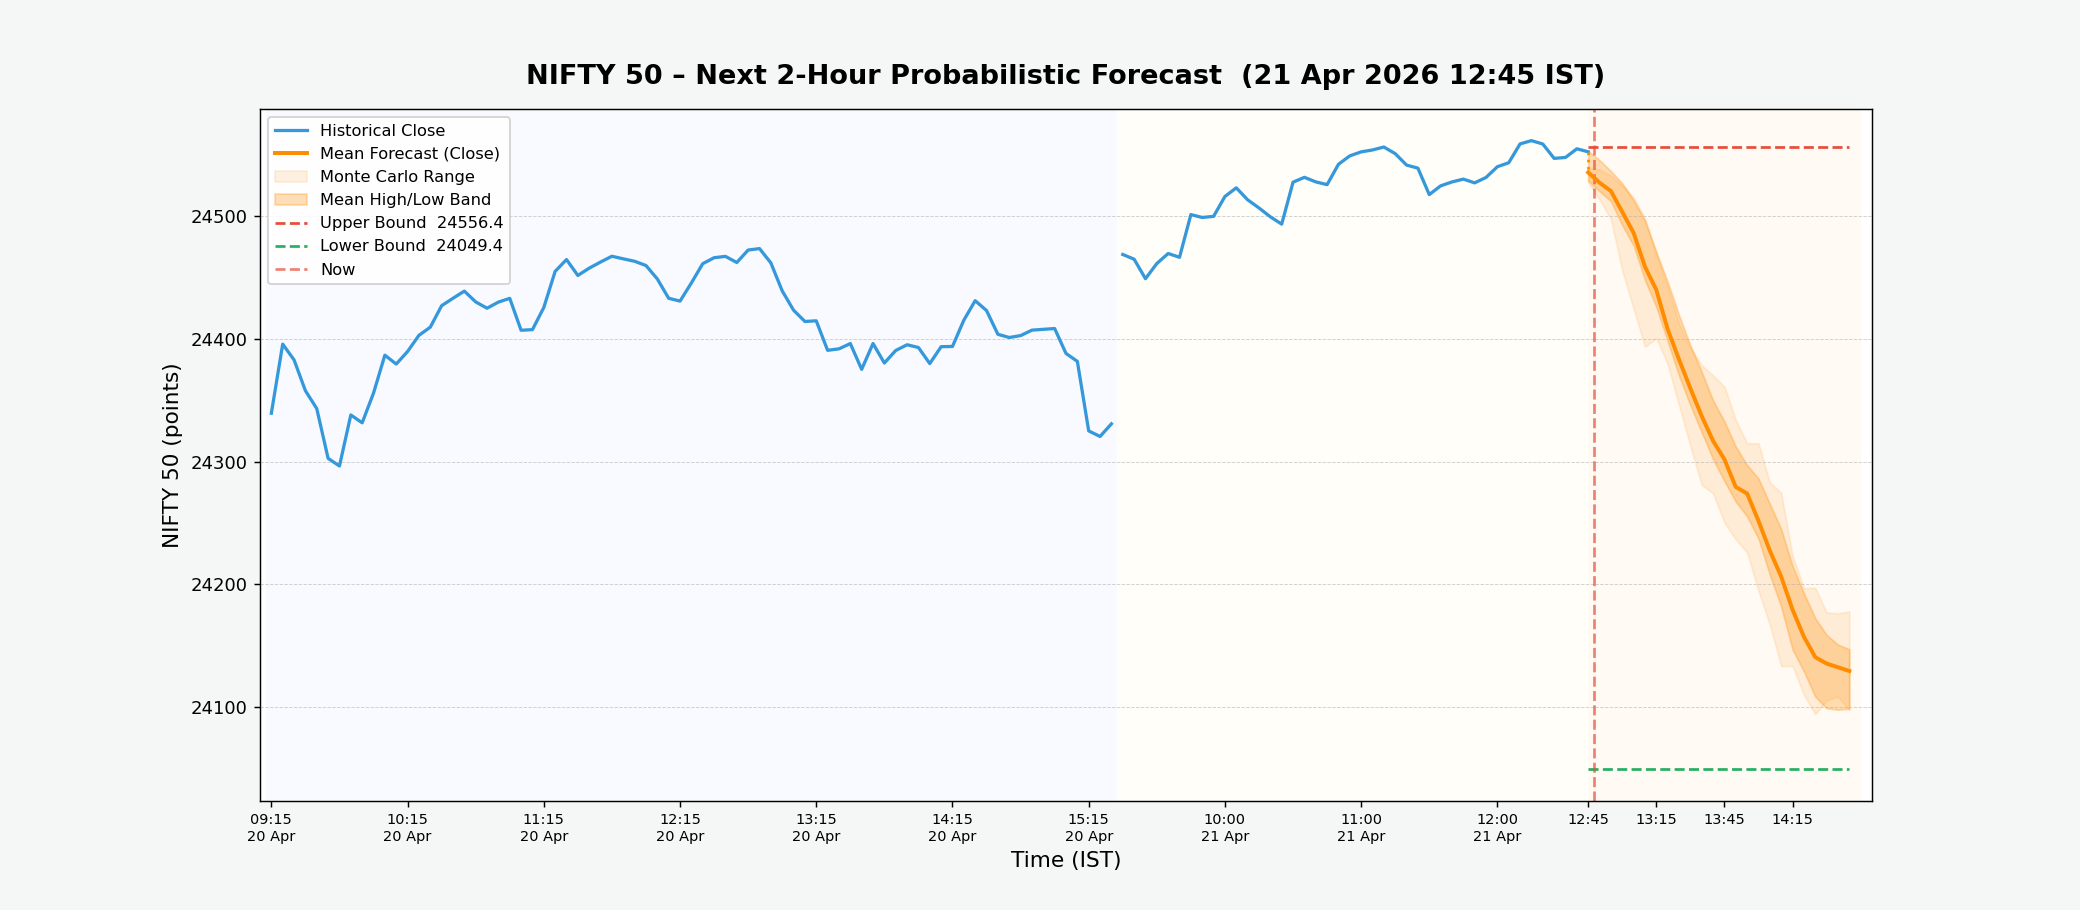
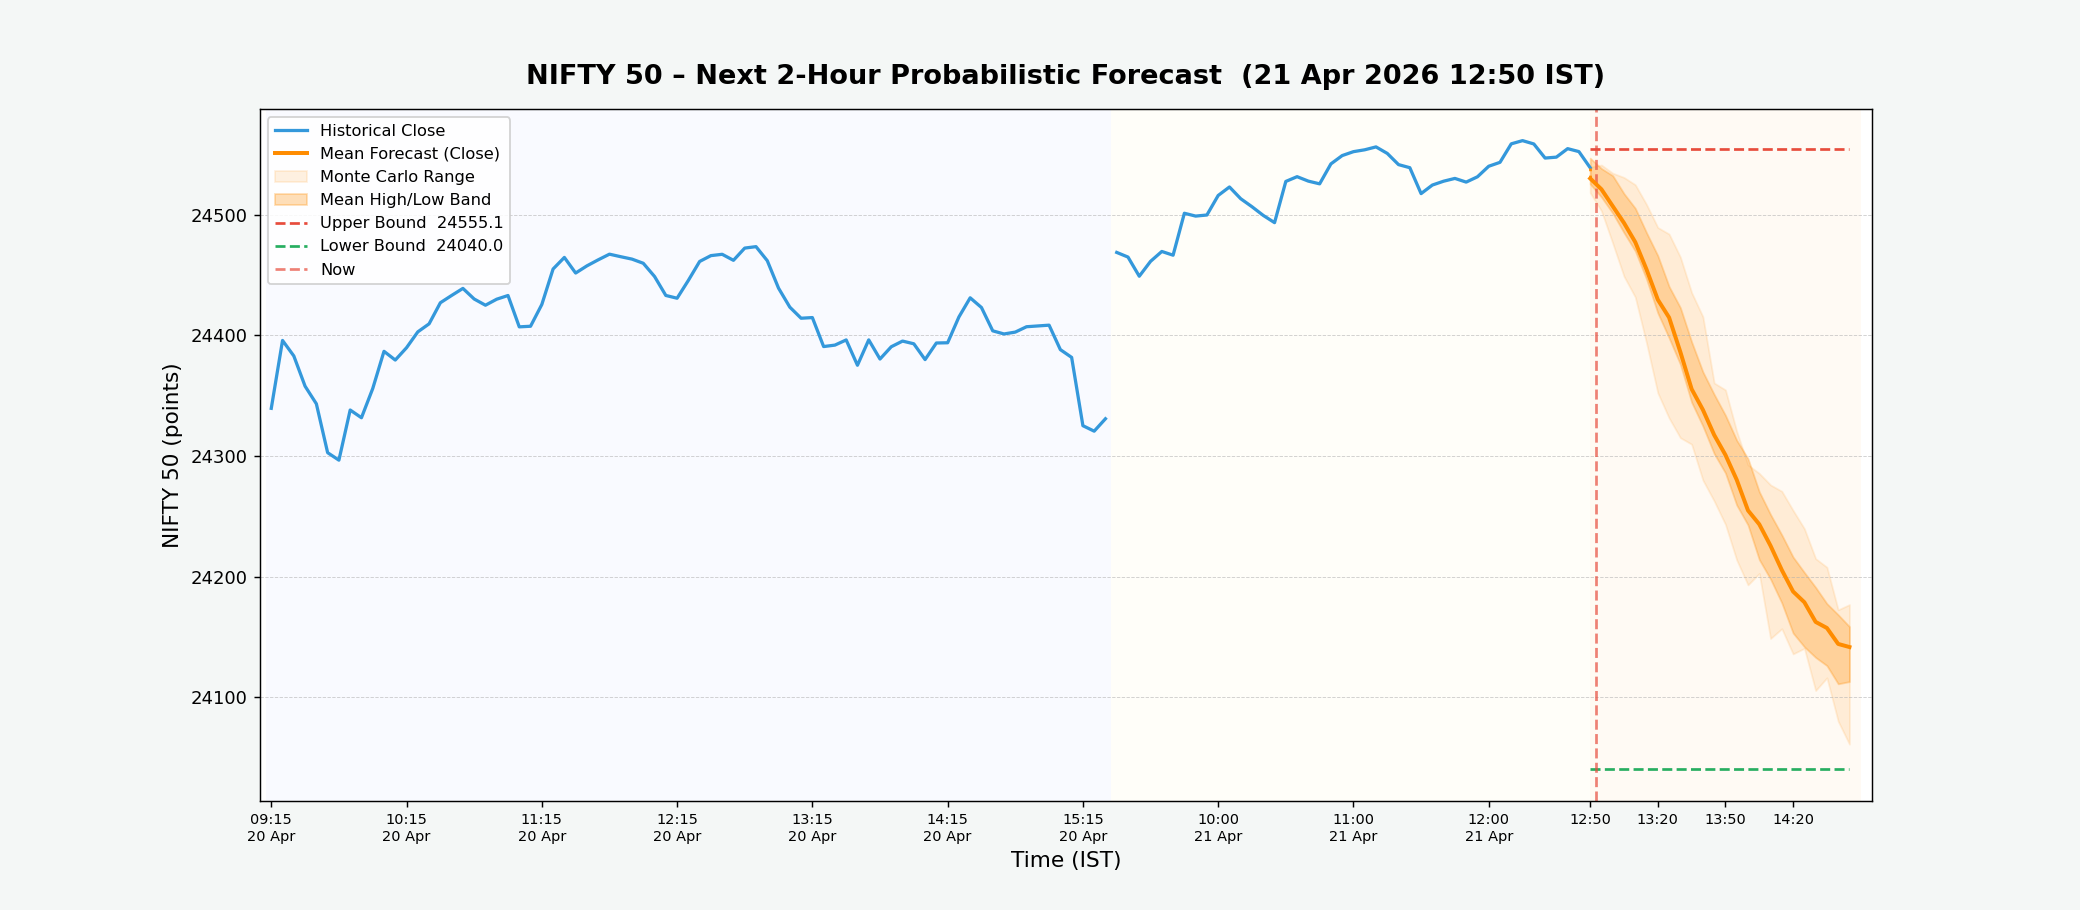
NIFTY forecast update – 2026-04-21 12:50 IST

diff --git a/index.html b/index.html
@@ -24,29 +24,29 @@
 
         <!-- Timestamp bar -->
         <div class="timestamp-bar">
-            <span>Last updated (IST):&nbsp;<strong id="update-time">2026-04-21 12:45:04</strong></span>
+            <span>Last updated (IST):&nbsp;<strong id="update-time">2026-04-21 12:50:04</strong></span>
         </div>
 
         <!-- Metric cards -->
         <div class="metrics-container">
             <div class="metric-card bullish">
                 <div class="metric-label">Bullish Bar Ratio</div>
-                <div class="metric-value" id="upside-prob">15.0%</div>
+                <div class="metric-value" id="upside-prob">15.8%</div>
                 <div class="metric-sub">Next 2h · close &gt; open %</div>
             </div>
             <div class="metric-card upper">
                 <div class="metric-label">Upper Bound</div>
-                <div class="metric-value" id="upper-bound">24556.4</div>
+                <div class="metric-value" id="upper-bound">24555.1</div>
                 <div class="metric-sub">Max predicted high</div>
             </div>
             <div class="metric-card lower">
                 <div class="metric-label">Lower Bound</div>
-                <div class="metric-value" id="lower-bound">24049.4</div>
+                <div class="metric-value" id="lower-bound">24040.0</div>
                 <div class="metric-sub">Min predicted low</div>
             </div>
             <div class="metric-card range">
                 <div class="metric-label">Predicted Range</div>
-                <div class="metric-value" id="pred-range">507.0 pts</div>
+                <div class="metric-value" id="pred-range">515.1 pts</div>
                 <div class="metric-sub">Upper − Lower spread</div>
             </div>
         </div>
